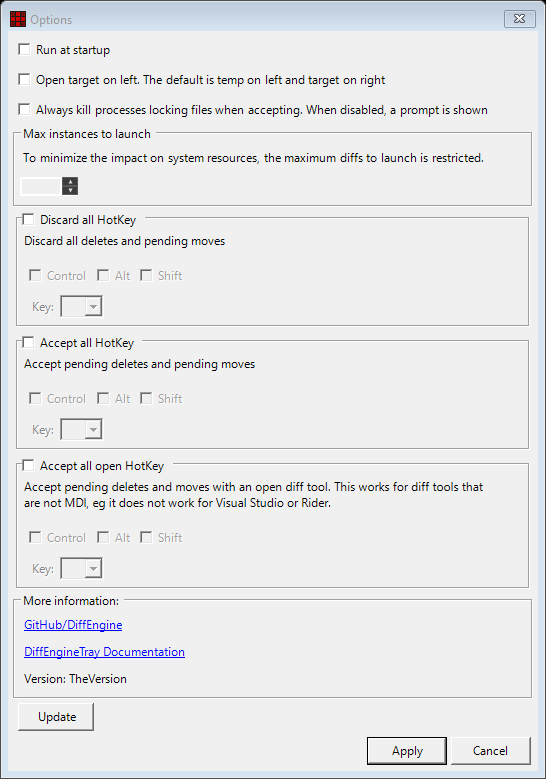
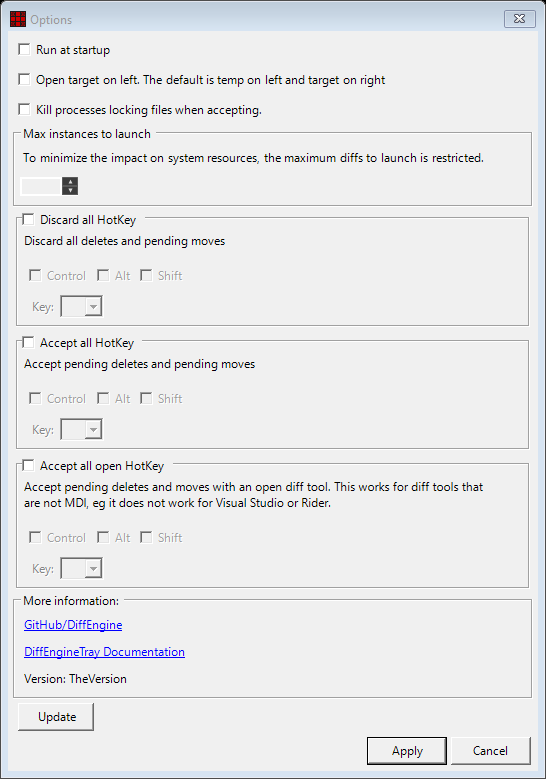
Fix always kill in options (#708)
* fix always kill in options

* .

Pull request: Fix always kill in options

Changed region(s): [[0.0623, 0.1232, 0.9029, 0.154]]

diff --git a/src/DiffEngineTray/Settings/OptionsForm.Designer.cs b/src/DiffEngineTray/Settings/OptionsForm.Designer.cs
@@ -235,8 +235,7 @@
         this.alwaysKillCheckBox.Padding = new System.Windows.Forms.Padding(5, 4, 5, 4);
         this.alwaysKillCheckBox.Size = new System.Drawing.Size(520, 27);
         this.alwaysKillCheckBox.TabIndex = 10;
-        this.alwaysKillCheckBox.Text = "Always kill processes locking files when accepting. When disabled, a prompt is s" +
-                                       "hown";
+        this.alwaysKillCheckBox.Text = "Kill processes locking files when accepting.";
         this.alwaysKillCheckBox.UseVisualStyleBackColor = true;
         //
         // maxInstancesGroupBox

diff --git a/src/DiffEngine.Tests/WindowsProcessTests.cs b/src/DiffEngine.Tests/WindowsProcessTests.cs
@@ -68,7 +68,7 @@ public class WindowsProcessTests
             Arguments = "--windowed",
             UseShellExecute = false,
             CreateNoWindow = true
-        });
+        })!;
 
         await Assert.That(process).IsNotNull();
 